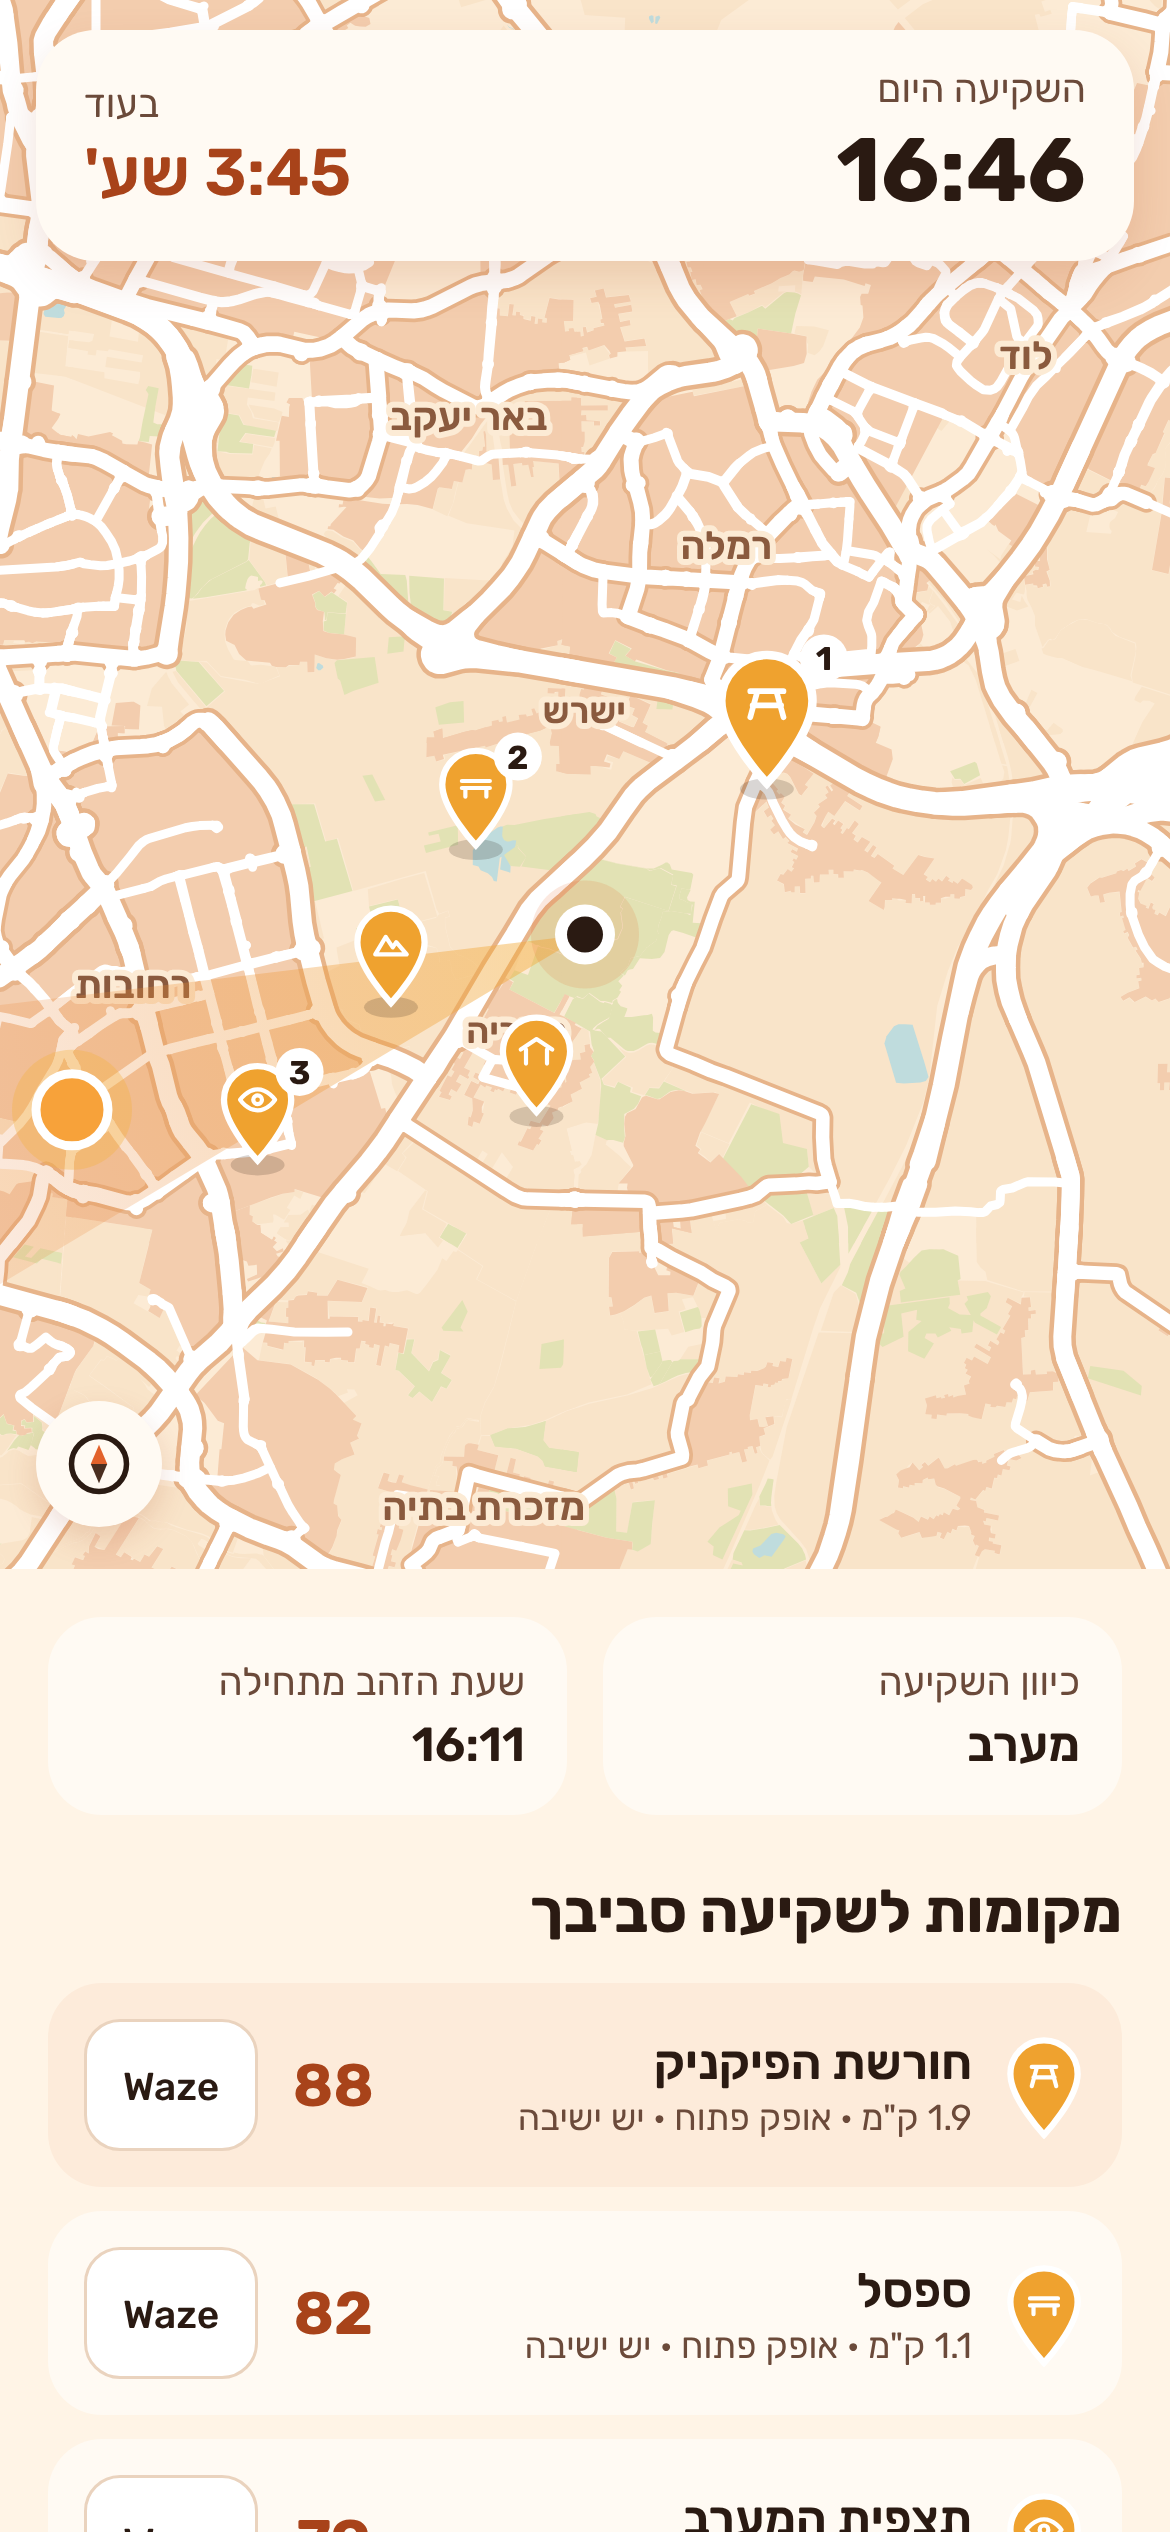
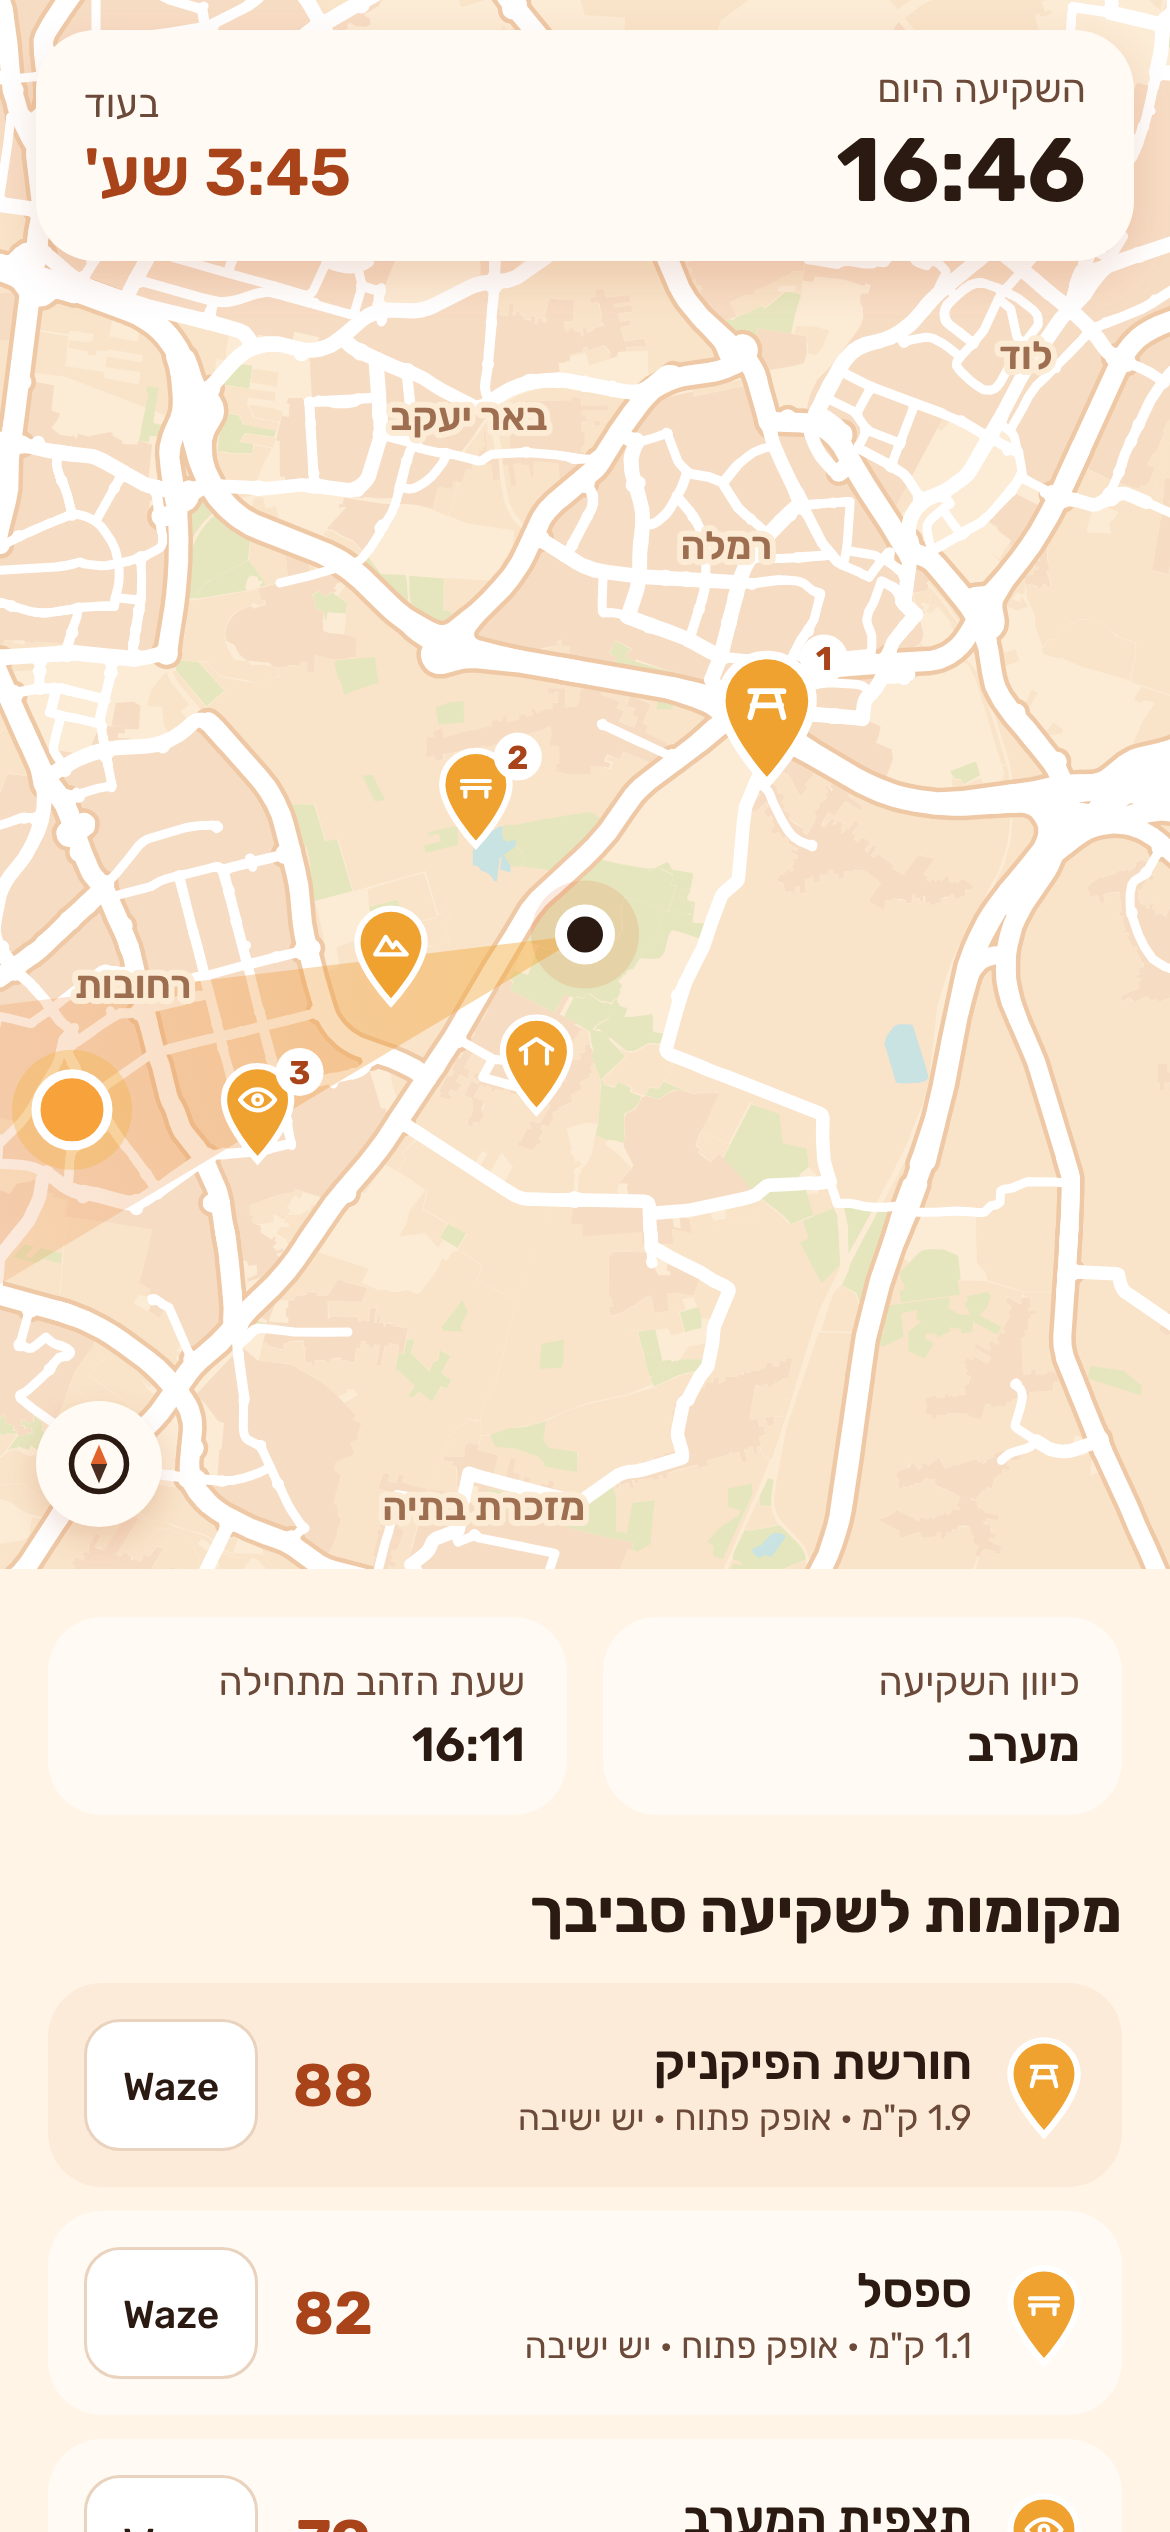
Spotlight: calmer map - lighter land and roads, no specks or pin shadows, names clear of pins
- Lighter built-up areas, water and greens; road outlines lighter and only on
  main roads; place names a softer brown, at most five.
- Drop areas under 8 px across (scattered specks) and the pins' shadows; rank
  numbers in the brand orange instead of near-black.
- Place names are laid out with the pins and the sun as obstacles, so a name
  no longer hides under a pin.
- The map no longer waits for the spot search before loading its tiles.

Claude-Session: https://claude.ai/code/session_01SK2eAmbDoYGcEZA2FRtonW

diff --git a/apps/sunset-spots/src/components/SpotMap.tsx b/apps/sunset-spots/src/components/SpotMap.tsx
@@ -1,9 +1,9 @@
 import { memo, useMemo, useState } from 'react';
 import { LayoutChangeEvent, StyleSheet, View } from 'react-native';
-import Svg, { Circle, Defs, Ellipse, G, Path, RadialGradient, Rect, Stop, Text as SvgText } from 'react-native-svg';
+import Svg, { Circle, Defs, G, Path, RadialGradient, Rect, Stop, Text as SvgText } from 'react-native-svg';
 import type { LatLon } from '../lib/geo';
-import { edgePoint, layoutLabels, makeProjection, mapRange, shapePath, type Projection } from '../lib/mapview';
-import type { AreaKind, MapLayers } from '../lib/tiles';
+import { edgePoint, layoutLabels, makeProjection, mapRange, shapePath, type Box, type Projection } from '../lib/mapview';
+import type { AreaKind, MapLayers, Place } from '../lib/tiles';
 import type { ShownSpot } from '../lib/travel';
 import { colors, fonts } from '../theme';
 import { ICON_PATHS, PIN_PATH } from './SpotPin';
@@ -17,22 +17,27 @@ const STREETS_MAX_RANGE_M = 3500;
  */
 const ROAD_STYLE = [
   { edge: 9, fill: 6 },
-  { edge: 7, fill: 4.5 },
+  { edge: 0, fill: 4.5 },
   { edge: 0, fill: 3 },
   { edge: 0, fill: 2 },
 ];
 
 // Warm, Waze-like ground colours, matching the mockup (ideas/mockups/sunset-app/).
+// Kept light and close together on purpose: the map is a calm backdrop for the pins and the sunset,
+// so land use is a hint, not a pattern, and nothing on it is darker than it needs to be.
 const MAP = {
   ground: '#FCEBD5',
-  // Fields barely set off from the ground: there are so many that anything stronger turns into a grid of tiles.
   field: '#F9E4C9',
-  green: '#E2E2B4',
-  water: '#BFDCDD',
-  town: '#F3CDAE',
-  roadEdge: '#E7B48A',
-  label: '#8A5A3E',
+  green: '#E6E6BE',
+  water: '#C9E2E2',
+  town: '#F7DCC4',
+  roadEdge: '#EFC9A6',
+  label: '#9E6E50',
 };
+/** Areas smaller than this (px across) are dropped: scattered specks are noise at this scale. */
+const MIN_AREA_PX = 8;
+/** Place names on the map at most. */
+const MAX_LABELS = 5;
 
 const AREA_ORDER: AreaKind[] = ['field', 'green', 'water', 'town'];
 
@@ -61,7 +66,7 @@ export function SpotMap({ from, sunsetBearing, spots, layers, height, top = 0 }:
       {width > 0 && (
         <Svg width={width} height={height}>
           <BaseLayers lat={from.lat} lon={from.lon} width={width} height={height} top={top} range={range} layers={layers} />
-          <Overlay proj={makeProjection(from, width, height, range, top)} sunsetBearing={sunsetBearing} spots={spots} />
+          <Overlay proj={makeProjection(from, width, height, range, top)} sunsetBearing={sunsetBearing} spots={spots} places={layers.places} />
         </Svg>
       )}
     </View>
@@ -91,7 +96,7 @@ const BaseLayers = memo(function BaseLayers({
     const areas = AREA_ORDER.flatMap((kind) =>
       layers.areas
         .filter((a) => a.kind === kind)
-        .map((a) => ({ id: a.id, kind, d: shapePath(a.points, proj, true) }))
+        .map((a) => ({ id: a.id, kind, d: shapePath(a.points, proj, true, 0.5, MIN_AREA_PX) }))
         .filter((a): a is { id: string; kind: AreaKind; d: string } => a.d !== null),
     );
     const roads = layers.roads
@@ -100,7 +105,7 @@ const BaseLayers = memo(function BaseLayers({
       .filter((r): r is { id: string; rank: number; d: string } => r.d !== null)
       // Small roads first so bigger ones sit on top at junctions.
       .sort((a, b) => b.rank - a.rank);
-    return { areas, roads, labels: layoutLabels(layers.places, proj) };
+    return { areas, roads };
   }, [lat, lon, width, height, top, range, layers]);
 
   const areaFill: Record<AreaKind, string> = {
@@ -125,23 +130,21 @@ const BaseLayers = memo(function BaseLayers({
       {shapes.roads.map((r) => (
         <Path key={r.id} d={r.d} fill="none" stroke={colors.white} strokeWidth={ROAD_STYLE[r.rank].fill} strokeLinecap="round" strokeLinejoin="round" />
       ))}
-      {shapes.labels.map((l) => (
-        <G key={l.id}>
-          {/* A halo in the ground colour keeps names readable over roads (react-native-svg has no paint-order). */}
-          <SvgText x={l.x} y={l.y} fontSize={l.fontSize} fontFamily={fonts.semibold} fill={MAP.ground} stroke={MAP.ground} strokeWidth={4} strokeLinejoin="round" textAnchor="middle">
-            {l.name}
-          </SvgText>
-          <SvgText x={l.x} y={l.y} fontSize={l.fontSize} fontFamily={fonts.semibold} fill={MAP.label} textAnchor="middle">
-            {l.name}
-          </SvgText>
-        </G>
-      ))}
     </G>
   );
 });
 
-/** Sunset beam, the sun at the map's edge, the spot pins and you. Cheap, redrawn as the spots re-rank. */
-function Overlay({ proj, sunsetBearing, spots }: { proj: Projection; sunsetBearing: number; spots: ShownSpot[] }) {
+/** Pin size in px: the best spot's pin is bigger. Its tip is the spot. */
+const pinSize = (rank: number) => {
+  const w = rank === 0 ? 38 : 28;
+  return { w, h: w * 1.25 };
+};
+
+/**
+ * Sunset beam, the sun at the map's edge, place names, the spot pins and you. Cheap, redrawn as the
+ * spots re-rank; names are placed here so they can keep clear of the pins.
+ */
+function Overlay({ proj, sunsetBearing, spots, places }: { proj: Projection; sunsetBearing: number; spots: ShownSpot[]; places: Place[] }) {
   const { center } = proj;
   const far = Math.hypot(proj.width, proj.height);
   const ray = (bearing: number) => {
@@ -153,6 +156,13 @@ function Overlay({ proj, sunsetBearing, spots }: { proj: Projection; sunsetBeari
   const sun = edgePoint(proj, sunsetBearing, 24);
   // Far spots first so near ones sit on top; the best spot always last.
   const drawn = [...spots].reverse();
+  const pinBoxes: Box[] = spots.map((spot, rank) => {
+    const p = proj.toXY(spot);
+    const { w, h } = pinSize(rank);
+    return { x0: p.x - w / 2, y0: p.y - h - 4, x1: p.x + w / 2 + 8, y1: p.y };
+  });
+  const sunBox: Box = { x0: sun.x - 20, y0: sun.y - 20, x1: sun.x + 20, y1: sun.y + 20 };
+  const labels = layoutLabels(places, proj, MAX_LABELS, [...pinBoxes, sunBox]);
 
   return (
     <G>
@@ -166,14 +176,24 @@ function Overlay({ proj, sunsetBearing, spots }: { proj: Projection; sunsetBeari
       <Circle cx={sun.x} cy={sun.y} r={20} fill={colors.gold} opacity={0.35} />
       <Circle cx={sun.x} cy={sun.y} r={12} fill="#F7A23A" stroke={colors.white} strokeWidth={3} />
 
+      {labels.map((l) => (
+        <G key={l.id}>
+          {/* A halo in the ground colour keeps names readable over roads (react-native-svg has no paint-order). */}
+          <SvgText x={l.x} y={l.y} fontSize={l.fontSize} fontFamily={fonts.semibold} fill={MAP.ground} stroke={MAP.ground} strokeWidth={4} strokeLinejoin="round" textAnchor="middle">
+            {l.name}
+          </SvgText>
+          <SvgText x={l.x} y={l.y} fontSize={l.fontSize} fontFamily={fonts.semibold} fill={MAP.label} textAnchor="middle">
+            {l.name}
+          </SvgText>
+        </G>
+      ))}
+
       {drawn.map((spot) => {
         const rank = spots.indexOf(spot);
         const p = proj.toXY(spot);
-        const w = rank === 0 ? 38 : 28;
-        const h = w * 1.25;
+        const { w, h } = pinSize(rank);
         return (
           <G key={spot.id} opacity={spot.reach.opacity}>
-            <Ellipse cx={p.x} cy={p.y} rx={9} ry={3.5} fill={colors.ink} opacity={0.18} />
             <G transform={`translate(${p.x - w / 2} ${p.y - h}) scale(${w / 40})`}>
               <Path d={PIN_PATH} fill={spot.reach.color} stroke={colors.white} strokeWidth={3} />
               <G transform="translate(10 9) scale(0.8333)">
@@ -183,7 +203,7 @@ function Overlay({ proj, sunsetBearing, spots }: { proj: Projection; sunsetBeari
             {rank < LABELLED && (
               <G>
                 <Circle cx={p.x + w / 2} cy={p.y - h + 4} r={8} fill={colors.white} />
-                <SvgText x={p.x + w / 2} y={p.y - h + 8} fontSize={11} fontFamily={fonts.bold} fill={colors.ink} textAnchor="middle">
+                <SvgText x={p.x + w / 2} y={p.y - h + 8} fontSize={11} fontFamily={fonts.bold} fill={colors.orangeText} textAnchor="middle">
                   {`${rank + 1}`}
                 </SvgText>
               </G>

diff --git a/apps/sunset-spots/src/lib/mapview.ts b/apps/sunset-spots/src/lib/mapview.ts
@@ -53,7 +53,7 @@ export function mapRange(distances: number[], min = 2000, max = 10000): number {
  * kept one (a field edge can have hundreds of points that all fall on the same pixel). Kept well
  * under a pixel so curves like roundabouts stay round. Null if the shape is too small to see or off screen.
  */
-export function shapePath(points: LatLon[], proj: Projection, closed: boolean, minStep = 0.5): string | null {
+export function shapePath(points: LatLon[], proj: Projection, closed: boolean, minStep = 0.5, minSize = 2): string | null {
   if (points.length < 2) return null;
   let d = '';
   let last: Point | null = null;
@@ -75,7 +75,7 @@ export function shapePath(points: LatLon[], proj: Projection, closed: boolean, m
     maxY = Math.max(maxY, p.y);
   });
   if (maxX < 0 || maxY < 0 || minX > proj.width || minY > proj.height) return null;
-  if (closed && (kept < 3 || (maxX - minX < 2 && maxY - minY < 2))) return null;
+  if (closed && (kept < 3 || (maxX - minX < minSize && maxY - minY < minSize))) return null;
   return closed ? `${d}Z` : d;
 }
 
@@ -102,11 +102,13 @@ const LABEL_NUDGES = [0, -22, 30];
  * Places settlement names, most important (then nearest) first, nudging a name up or down if it would
  * cover a name already placed or you in the middle, and dropping it if nothing fits or it runs off the map.
  * At most `max` names, with some air between them: the map is for finding a spot, not reading an atlas.
+ * `obstacles` are screen areas a name must not cover (the pins).
  * `rank`: 0 city, 1 town, 2 village, 3 hamlet.
  */
-export function layoutLabels(labels: LabelInput[], proj: Projection, max = 7): PlacedLabel[] {
+export type Box = { x0: number; y0: number; x1: number; y1: number };
+
+export function layoutLabels(labels: LabelInput[], proj: Projection, max = 7, obstacles: Box[] = []): PlacedLabel[] {
   const GAP = 10;
-  type Box = { x0: number; y0: number; x1: number; y1: number };
   const you: Box = { x0: proj.center.x - 18, y0: proj.center.y - 18, x1: proj.center.x + 18, y1: proj.center.y + 18 };
   const hits = (a: Box, b: Box, gap: number) => a.x0 < b.x1 + gap && a.x1 + gap > b.x0 && a.y0 < b.y1 + gap && a.y1 + gap > b.y0;
   const boxes: Box[] = [];
@@ -125,7 +127,7 @@ export function layoutLabels(labels: LabelInput[], proj: Projection, max = 7): P
       const y = at.y + nudge;
       const box = { x0: at.x - halfW, y0: y - fontSize, x1: at.x + halfW, y1: y + 4 };
       if (box.x0 < 4 || box.x1 > proj.width - 4 || box.y0 < proj.top + 4 || box.y1 > proj.height - 4) continue;
-      if (hits(box, you, 0) || boxes.some((b) => hits(box, b, GAP))) continue;
+      if (hits(box, you, 0) || obstacles.some((o) => hits(box, o, 0)) || boxes.some((b) => hits(box, b, GAP))) continue;
       boxes.push(box);
       placed.push({ id: label.id, name: label.name, fontSize, x: at.x, y });
       break;

diff --git a/apps/sunset-spots/tests/map.test.ts b/apps/sunset-spots/tests/map.test.ts
@@ -78,3 +78,16 @@ test('layoutLabels puts the bigger place first and moves the smaller one aside',
   assert.equal(town.y, proj.toXY(at(0, 2050)).y);
   assert.ok(Math.abs(village.y - town.y) >= town.fontSize, `${village.y} vs ${town.y}`);
 });
+
+test('layoutLabels keeps names off the pins', () => {
+  const proj = makeProjection(HOME, 400, 400, 5000);
+  const place = { id: 'v', name: 'מושב', rank: 2, ...destinationPoint(HOME, 0, 2000) };
+  const at = proj.toXY(place);
+  const free = layoutLabels([place], proj);
+  assert.equal(free[0].y, at.y);
+  // A pin right over the name's spot: the name moves aside instead of hiding under it.
+  const pin = { x0: at.x - 20, y0: at.y - 18, x1: at.x + 20, y1: at.y + 6 };
+  const moved = layoutLabels([place], proj, 7, [pin]);
+  assert.equal(moved.length, 1);
+  assert.notEqual(moved[0].y, at.y);
+});

diff --git a/apps/sunset-spots/src/app/index.tsx b/apps/sunset-spots/src/app/index.tsx
@@ -48,8 +48,8 @@ export default function SunsetScreen() {
           info.sunset,
         )
       : null;
-  // The map zooms to fit the shown spots, so wait for them before fetching map tiles for that area.
-  const map = useMapLayers(spots.state.status === 'loading' ? null : coords, mapRange((ranked ?? []).map((s) => s.distance)));
+  // Same zoom as the map draws: it fits the shown spots, or a close-up until they're in.
+  const map = useMapLayers(coords, mapRange((ranked ?? []).map((s) => s.distance)));
 
   if (state.status === 'loading') {
     return (
